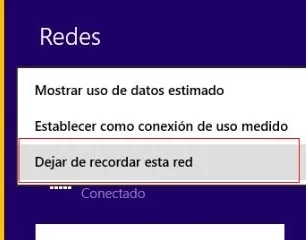
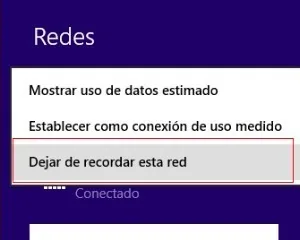
Quitar la franja de fondo que dejaba el recorte de Windows 8
El recorte cortaba 6px antes del borde del panel, asi que quedaba una
tira naranja de papel pintado en el lateral izquierdo que parecia el
canto de un elemento cortado. Ahora corta justo en el borde del panel.

diff --git a/index.html b/index.html
@@ -692,7 +692,7 @@ body{margin:0;background:#0e0f1d}
             <div class="cont">
               <p>Haz <b>clic derecho</b> sobre <code>Andared_Corporativo</code> y elige <b>Dejar de recordar esta red</b>.</p>
               <p class="apunte">Es lo que hay que hacer cada vez que cambies la contraseña de IDEA: olvida la red y vuelve a conectarte desde cero.</p>
-              <button type="button" class="captura"><img src="img/w8o-2-dejar-de-recordar.webp" width="306" height="240" loading="lazy" alt="Panel Redes con el menú contextual y la opción Dejar de recordar esta red señalada"></button>
+              <button type="button" class="captura"><img src="img/w8o-2-dejar-de-recordar.webp" width="300" height="240" loading="lazy" alt="Panel Redes con el menú contextual y la opción Dejar de recordar esta red señalada"></button>
             </div>
           </li>
         </ol>
